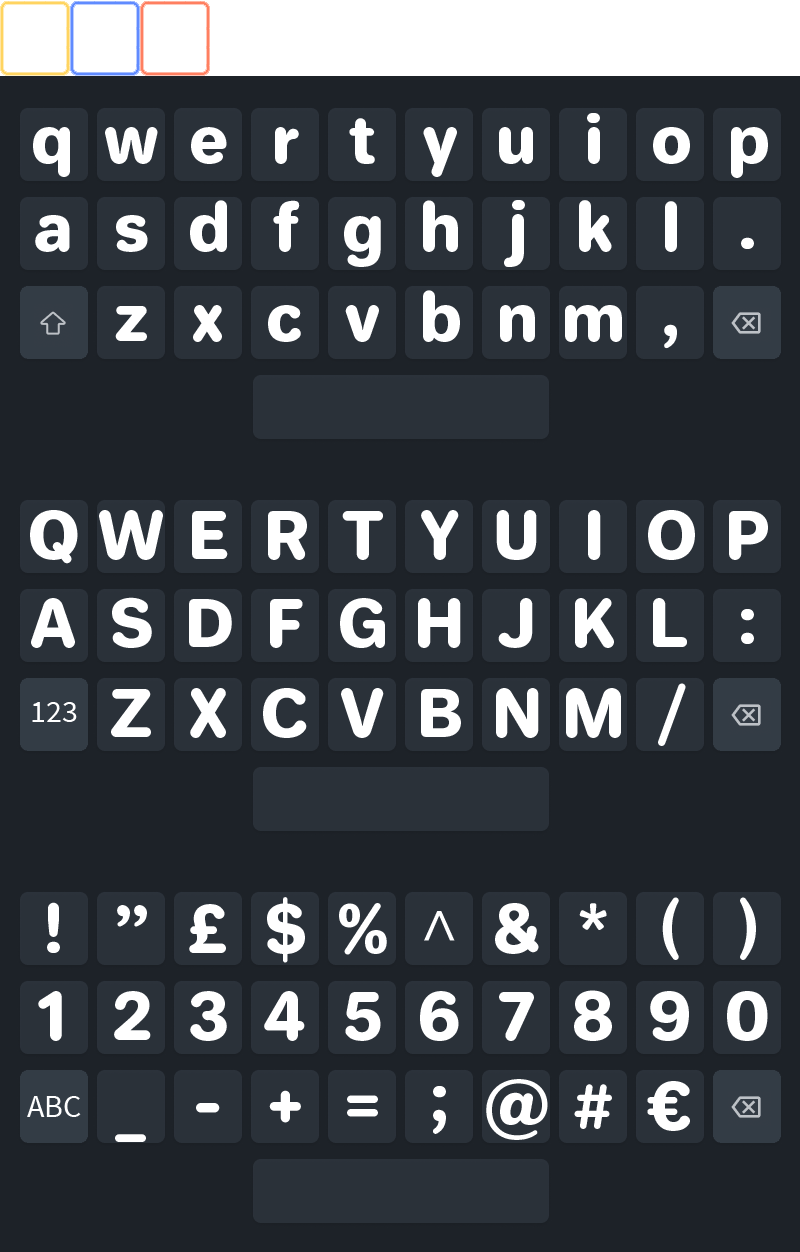
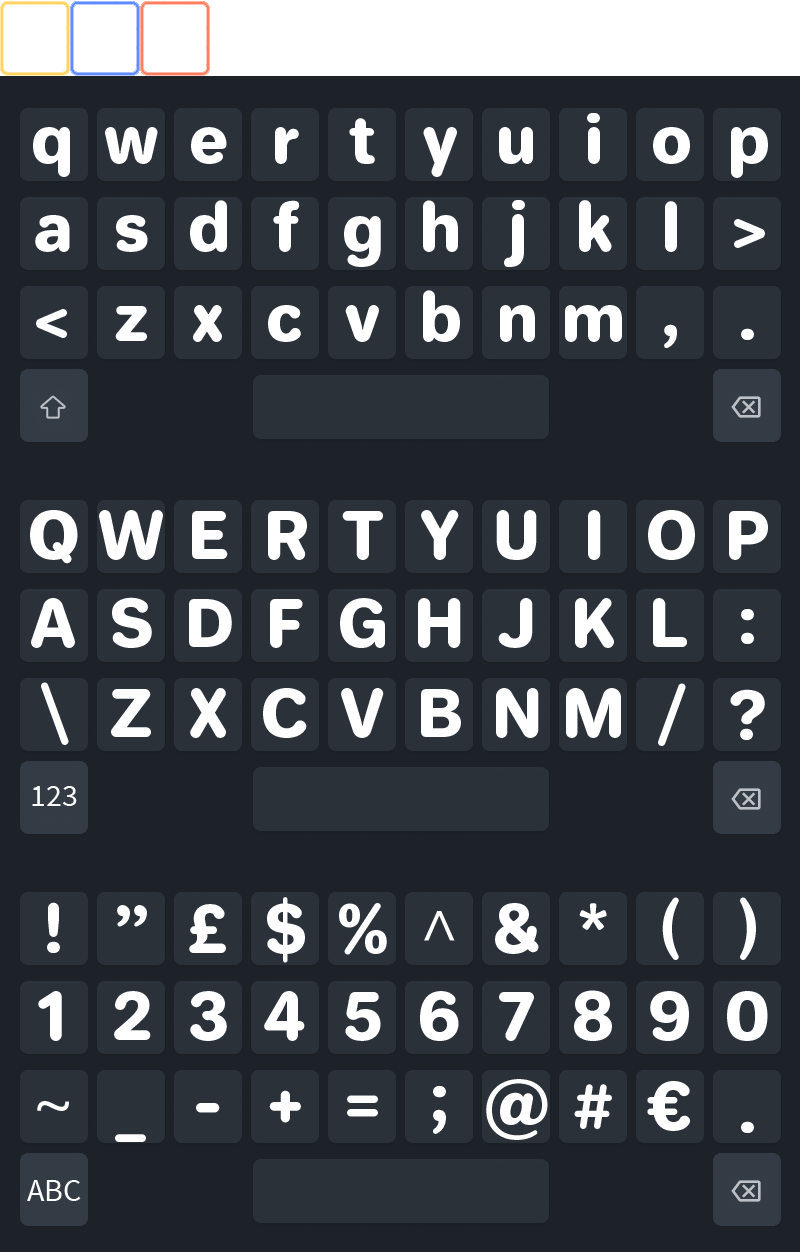
update on screen keyboard

diff --git a/samples/golf/src/golf/KeyboardState.cpp b/samples/golf/src/golf/KeyboardState.cpp
@@ -324,14 +324,14 @@ void KeyboardState::buildScene()
     m_highlightEntity = entity;
 
     entity = m_scene.createEntity();
-    entity.addComponent<cro::Transform>().setPosition({ 63.f, 105.f, 0.1f });
+    entity.addComponent<cro::Transform>().setPosition({ 63.f, 27.f, 0.1f });
     entity.addComponent<cro::Drawable2D>();
     entity.addComponent<cro::Sprite>() = spriteSheet.getSprite("button");
     entity.getComponent<cro::Sprite>().setColour(cro::Colour(1.f, 0.835f, 0.f));
     m_keyboardEntity.getComponent<cro::Transform>().addChild(entity.getComponent<cro::Transform>());
 
     entity = m_scene.createEntity();
-    entity.addComponent<cro::Transform>().setPosition({ 757.f, 105.f, 0.1f });
+    entity.addComponent<cro::Transform>().setPosition({ 757.f, 27.f, 0.1f });
     entity.addComponent<cro::Drawable2D>();
     entity.addComponent<cro::Sprite>() = spriteSheet.getSprite("button");
     entity.getComponent<cro::Sprite>().setColour(cro::Colour(1.f, 0.f, 0.2f));
@@ -355,10 +355,9 @@ void KeyboardState::initCallbacks()
     //and works across then up
 
     auto& lowerCallbacks = m_keyboardLayouts[KeyboardLayout::Lower].callbacks;
-    lowerCallbacks[0] = std::bind(&KeyboardState::nextLayout, this);
-    lowerCallbacks[9] = std::bind(&KeyboardState::sendBackspace, this);
-
-    //zxcvbnm,
+    
+    //<zxcvbnm,.
+    lowerCallbacks[0] = SendCodepoint(0x3c, 0);
     lowerCallbacks[1] = SendCodepoint(0x7a, 0);
     lowerCallbacks[2] = SendCodepoint(0x78, 0);
     lowerCallbacks[3] = SendCodepoint(0x63, 0);
@@ -367,8 +366,10 @@ void KeyboardState::initCallbacks()
     lowerCallbacks[6] = SendCodepoint(0x6e, 0);
     lowerCallbacks[7] = SendCodepoint(0x6d, 0);
     lowerCallbacks[8] = SendCodepoint(0x2c, 0);
+    lowerCallbacks[9] = SendCodepoint(0x2e, 0);
 
-    //asdfghjkl.
+
+    //asdfghjkl>
     lowerCallbacks[10] = SendCodepoint(0x61, 0);
     lowerCallbacks[11] = SendCodepoint(0x73, 0);
     lowerCallbacks[12] = SendCodepoint(0x64, 0);
@@ -378,7 +379,7 @@ void KeyboardState::initCallbacks()
     lowerCallbacks[16] = SendCodepoint(0x6a, 0);
     lowerCallbacks[17] = SendCodepoint(0x6b, 0);
     lowerCallbacks[18] = SendCodepoint(0x6c, 0);
-    lowerCallbacks[19] = SendCodepoint(0x2e, 0);
+    lowerCallbacks[19] = SendCodepoint(0x3e, 0);
 
     //qwertyuiop
     lowerCallbacks[20] = SendCodepoint(0x71, 0);
@@ -393,10 +394,9 @@ void KeyboardState::initCallbacks()
     lowerCallbacks[29] = SendCodepoint(0x70, 0);
 
     auto& upperCallbacks = m_keyboardLayouts[KeyboardLayout::Upper].callbacks;
-    upperCallbacks[0] = std::bind(&KeyboardState::nextLayout, this);
-    upperCallbacks[9] = std::bind(&KeyboardState::sendBackspace, this);
-
-    //ZXCVBNM/
+    
+    //\ZXCVBNM/?
+    upperCallbacks[0] = SendCodepoint(0x5c, 0);
     upperCallbacks[1] = SendCodepoint(0x5a, 0);
     upperCallbacks[2] = SendCodepoint(0x58, 0);
     upperCallbacks[3] = SendCodepoint(0x43, 0);
@@ -405,6 +405,7 @@ void KeyboardState::initCallbacks()
     upperCallbacks[6] = SendCodepoint(0x4e, 0);
     upperCallbacks[7] = SendCodepoint(0x4d, 0);
     upperCallbacks[8] = SendCodepoint(0x2f, 0);
+    upperCallbacks[9] = SendCodepoint(0x3f, 0);
 
     //ASDFGHJKL:
     upperCallbacks[10] = SendCodepoint(0x41, 0);
@@ -431,10 +432,9 @@ void KeyboardState::initCallbacks()
     upperCallbacks[29] = SendCodepoint(0x50, 0);
 
     auto& symbolCallbacks = m_keyboardLayouts[KeyboardLayout::Symbol].callbacks;
-    symbolCallbacks[0] = std::bind(&KeyboardState::nextLayout, this);
-    symbolCallbacks[9] = std::bind(&KeyboardState::sendBackspace, this);
-
-    //_-+=;@# euro
+    
+    //~_-+=;@# euro.
+    symbolCallbacks[0] = SendCodepoint(0x7e, 0);
     symbolCallbacks[1] = SendCodepoint(0x5f, 0);
     symbolCallbacks[2] = SendCodepoint(0x2d, 0);
     symbolCallbacks[3] = SendCodepoint(0x2b, 0);
@@ -443,6 +443,7 @@ void KeyboardState::initCallbacks()
     symbolCallbacks[6] = SendCodepoint(0x40, 0);
     symbolCallbacks[7] = SendCodepoint(0x23, 0);
     symbolCallbacks[8] = SendCodepoint(-30, -126, -84);
+    symbolCallbacks[9] = SendCodepoint(0x2e, 0);
 
     //1234567890
     symbolCallbacks[10] = SendCodepoint(0x31, 0);
@@ -451,7 +452,7 @@ void KeyboardState::initCallbacks()
     symbolCallbacks[13] = SendCodepoint(0x34, 0);
     symbolCallbacks[14] = SendCodepoint(0x35, 0);
     symbolCallbacks[15] = SendCodepoint(0x36, 0);
-    symbolCallbacks[16] = SendCodepoint(0x36, 0);
+    symbolCallbacks[16] = SendCodepoint(0x37, 0);
     symbolCallbacks[17] = SendCodepoint(0x38, 0);
     symbolCallbacks[18] = SendCodepoint(0x39, 0);
     symbolCallbacks[19] = SendCodepoint(0x30, 0);
